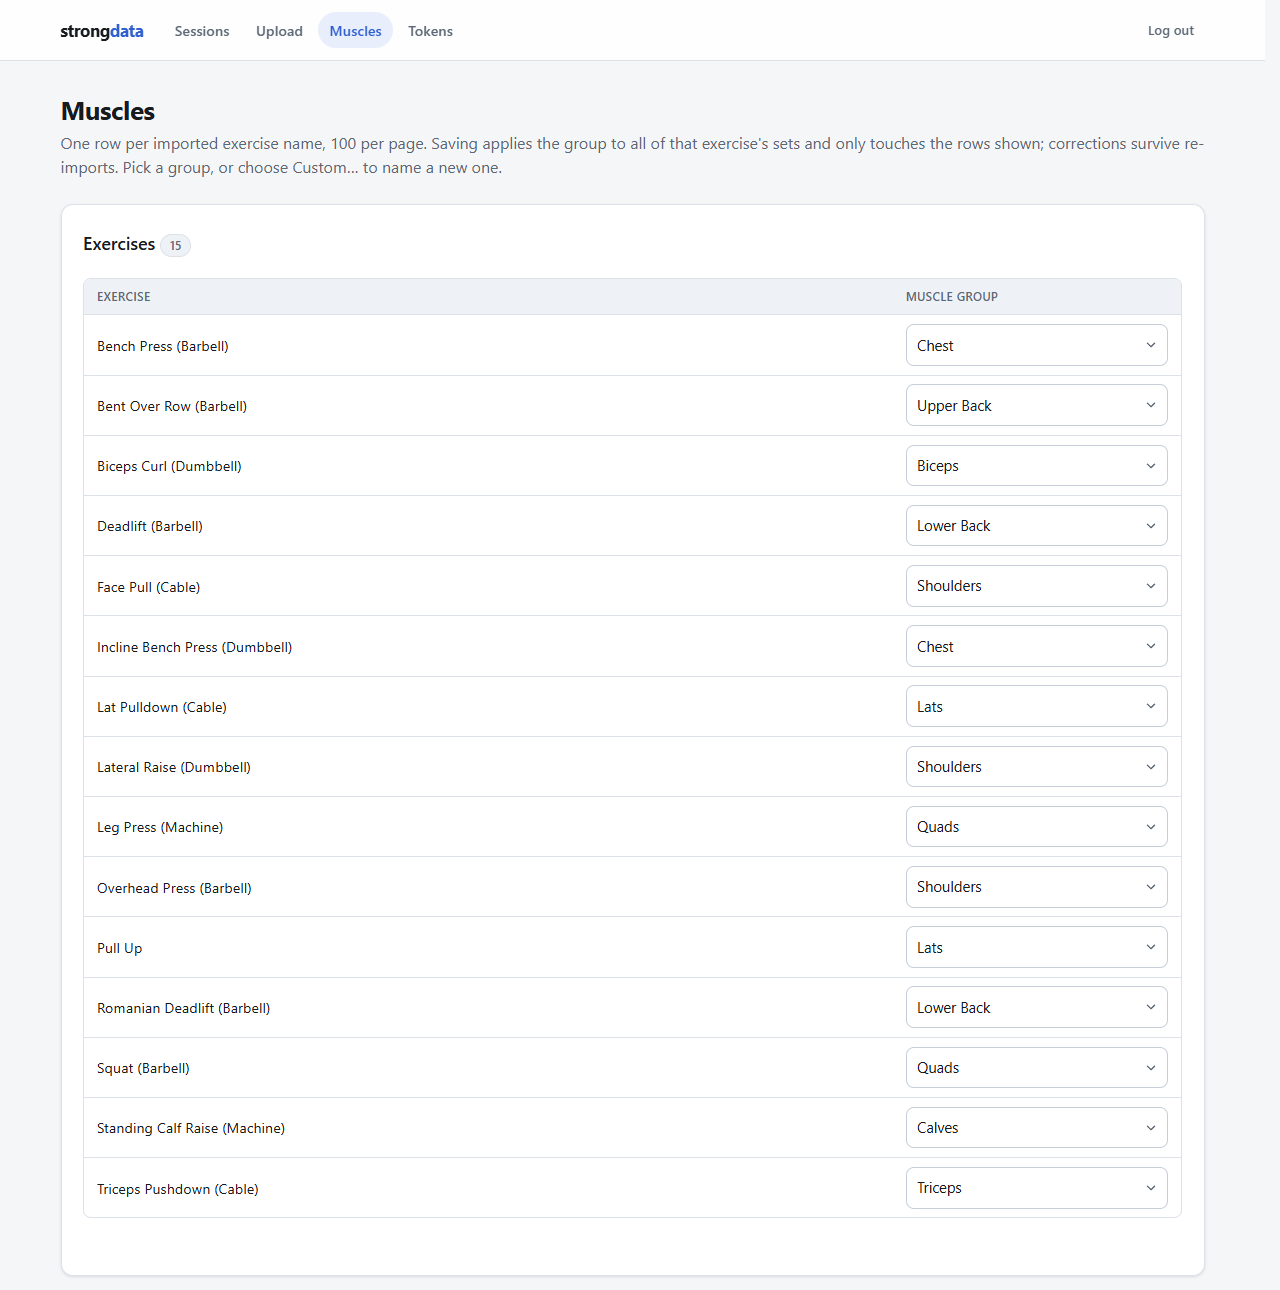
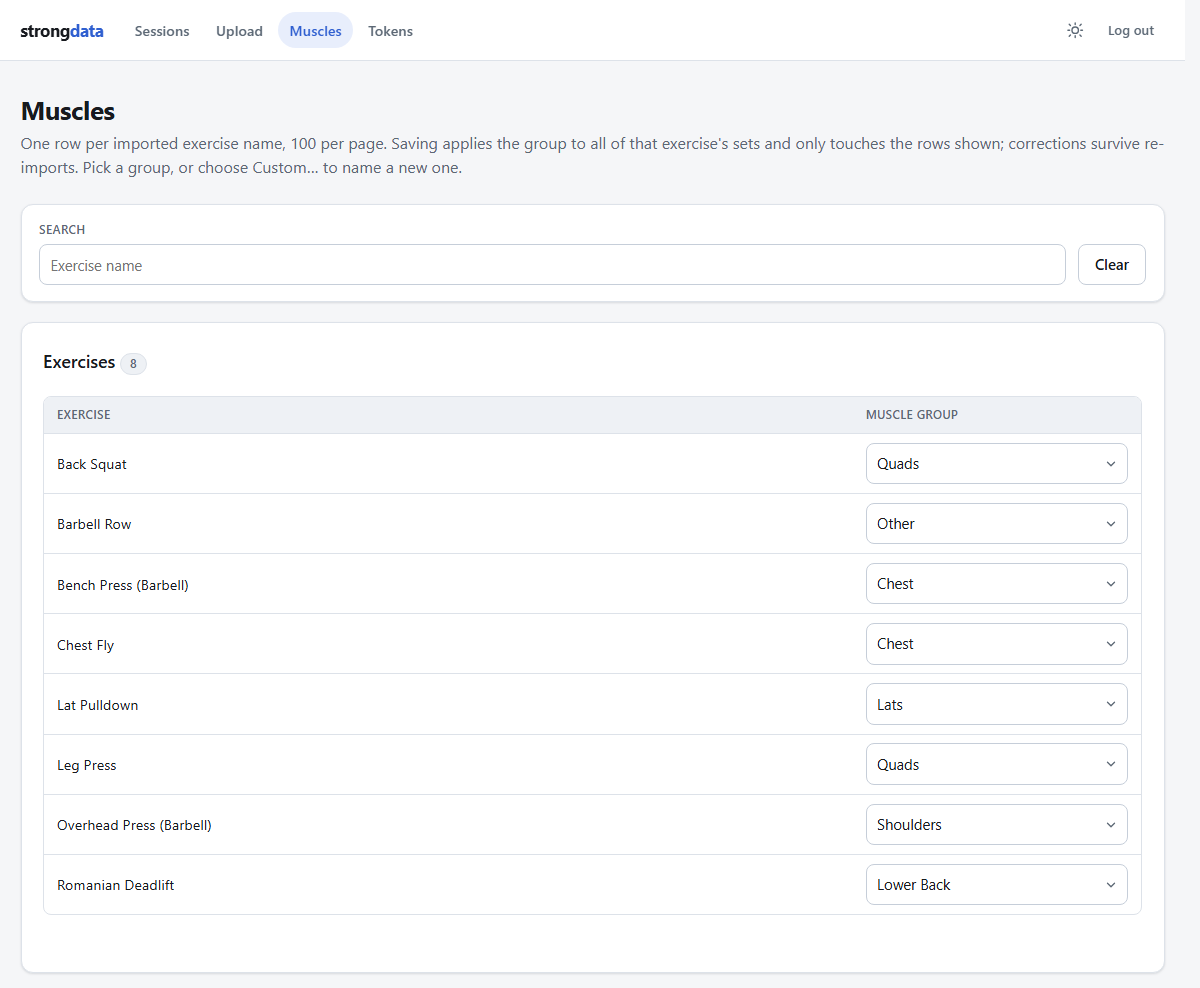
Docs: regenerate the screenshots for the new UI
The captures predated the theme button, the numbered pager and the Muscles
filter box, and the wordmark was cropped through its descender.

- Recapture every page shot at 1200px wide instead of 1280, clipped to the
  same regions, with the theme pinned light so an OS dark setting cannot
  change the result.
- Split the preview into a clean one for the README and the import steps and
  a second with grouped warnings for the Warnings section, so neither caption
  claims something the image does not show.
- Add a tokens capture, and reorder the README from import to sessions to the
  token-authenticated API, which is the order the app is used in.
- Trim the wordmark to its ink bounding box and pad it evenly, at 120px
  instead of 144px, so the `g` descender and the ascenders are no longer cut.

diff --git a/docs/usage.md b/docs/usage.md
@@ -34,7 +34,7 @@ upload page repeats these steps where you need them.
 4. **Sessions** (`/sessions/`) — the imported sessions, newest first, 25 per page.
    Open a row to see its sets.
 
-![The preview page: warnings grouped by cause, the sessions in the file and the replace notice](images/import-preview.png)
+![The preview page: the sessions in the file and a sample of their sets, before anything is written](images/import-preview.png)
 
 ### Confirming replaces your previous data
 
@@ -72,6 +72,8 @@ line numbers affected. A `Weight` of `0` is bodyweight, exactly like an empty
 `Weight`: no weight is stored, it adds no volume, and it appears in bodyweight
 records.
 
+![The preview with five warnings grouped by cause above the sessions in the file](images/import-warnings.png)
+
 ## Sessions
 
 `/sessions/` lists your sessions newest first with date, workout, program and
@@ -104,7 +106,7 @@ Each new exercise name gets a guessed muscle group at import. Correct guesses on
 `/muscles/`: a correction applies to that exercise name for your account and is
 preserved by later imports.
 
-![The muscles page: one row per exercise with the guessed or corrected muscle group](images/muscles.png)
+![The muscles page: one row per exercise with the guessed or corrected muscle group, and a search box](images/muscles.png)
 
 The page lists 100 names at a time; edit the rows you want and choose *Save all*,
 which appears once anything differs from what is stored and saves the rows on that
@@ -128,6 +130,8 @@ The API is read-only and authenticated with a bearer token, created on `/tokens/
 give it a name, copy the secret when it is shown (it is displayed once) and
 optionally set an expiry. Revoke a token at any time; revocation takes effect on
 the next request.
+
+![The tokens page: named tokens with prefix, creation date, expiry and status](images/tokens.png)
 
 ```sh
 curl -fsS -H "Authorization: Bearer <secret>" \

diff --git a/README.md b/README.md
@@ -21,17 +21,25 @@ records, muscle-group corrections and a token-authenticated API.
 
 ## What it looks like
 
+**Importing** is always two steps. The preview lists the sessions in the file and a
+sample of their sets, and flags every row that would be skipped or blanked together
+with the reason — so a bad export is caught before it replaces anything.
+
+![The import preview: the sessions in the file and a sample of their sets](docs/images/import-preview.png)
+
 **Sessions** are the home page: newest first, one row per workout, opened to its
 sets with weight, reps, RPE, volume and estimated 1RM, grouped per exercise. Text,
 program and date filters narrow the list.
 
 ![The sessions page: a legs workout expanded into one table per exercise](docs/images/sessions.png)
 
-**Importing** is always two steps. The preview lists the sessions in the file, a
-sample of their sets, and every row that would be skipped or blanked together with
-the reason — so a bad export is caught before it replaces anything.
+**The API** reads the same data back. Create a named token on `/tokens/`, copy the
+secret it shows once, and send it as a bearer token; the generated reference at
+`/api/v1/docs` documents every endpoint, its parameters and its response schemas.
 
-![The import preview: five warnings grouped by cause above the sessions in the file](docs/images/import-preview.png)
+![The tokens page: named tokens with prefix, creation date, expiry and status](docs/images/tokens.png)
+
+![The API reference at /api/v1/docs: endpoints grouped by tag, with parameters and response schemas](docs/images/api-docs.png)
 
 ## Quick start
 
